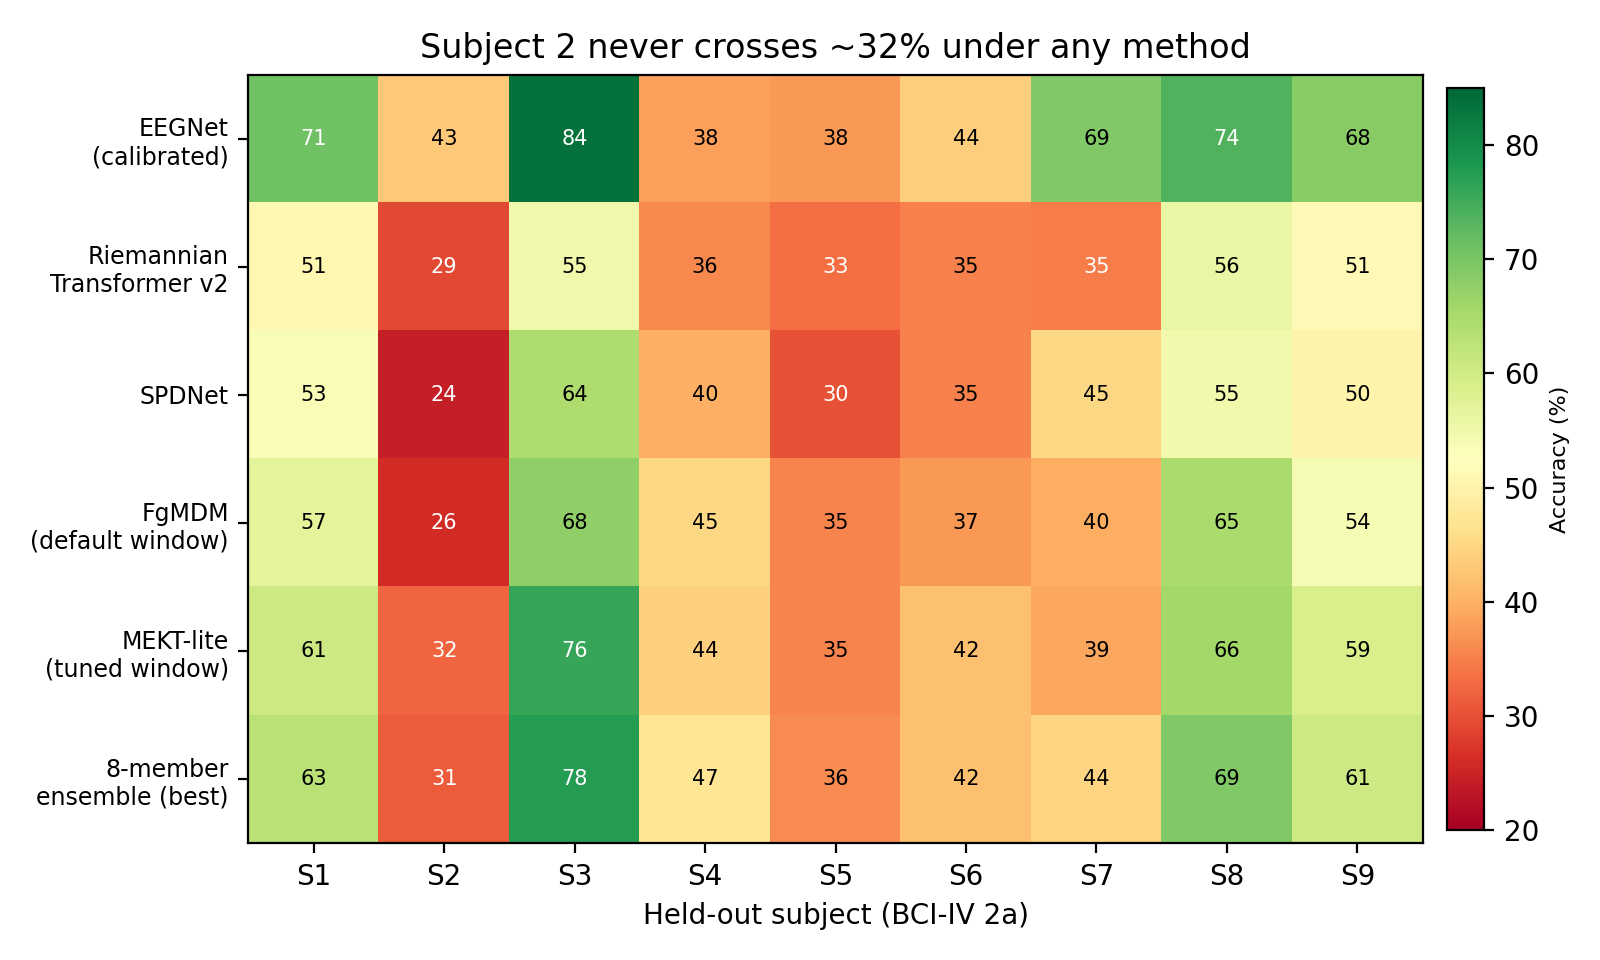
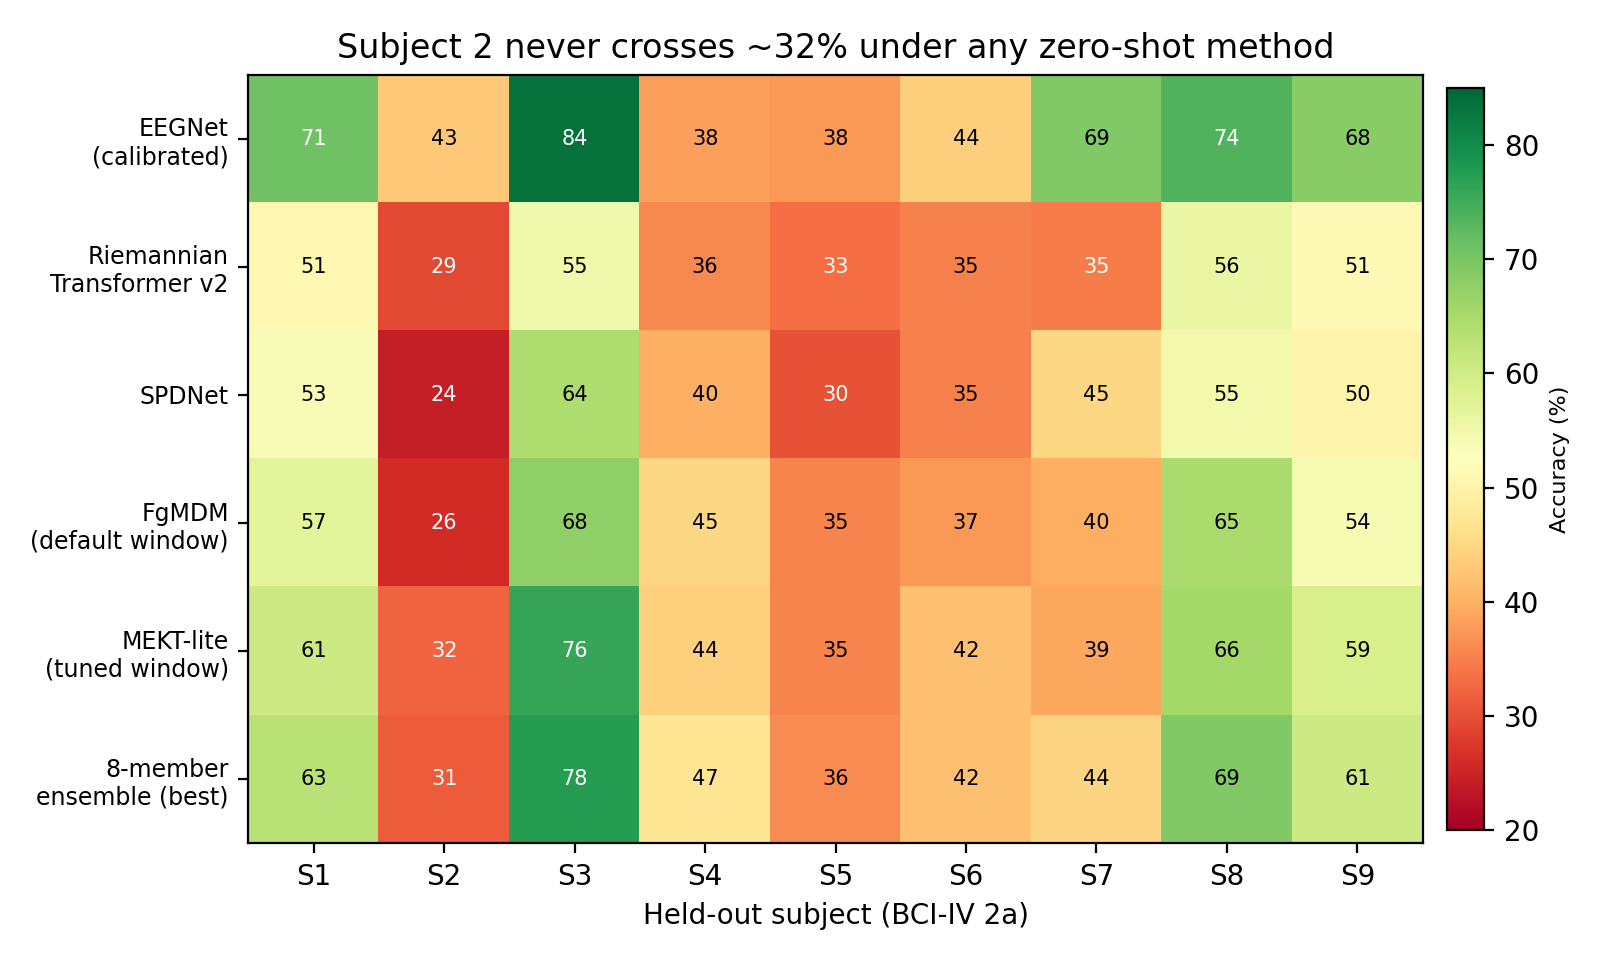
Fix two chart titles to match manuscript text corrections
Both were left inconsistent with the corresponding text/caption fixes:
- all_methods_comparison.png: "All zero-shot methods" -> "Representative
  zero-shot methods" (this plot excludes the negative-result-sweep methods,
  so "all" overclaimed).
- per_subject_heatmap.png: "under any method" -> "under any zero-shot
  method" (the calibrated EEGNet row does cross 32% for subject 2, at 43%;
  only the zero-shot methods stay below it).

Data unchanged in both -- title text only. Regenerated via
generate_manuscript_figures.py, diffed to confirm no other changes.

Changed region(s): [[0.2188, 0.0312, 0.8438, 0.0625]]

diff --git a/paper/writeup/generate_manuscript_figures.py b/paper/writeup/generate_manuscript_figures.py
@@ -78,7 +78,7 @@ for i in range(len(methods)):
 ax.set_xlabel("Held-out subject (BCI-IV 2a)")
 cbar = plt.colorbar(im, ax=ax, fraction=0.03, pad=0.02)
 cbar.set_label("Accuracy (%)", fontsize=8)
-ax.set_title("Subject 2 never crosses ~32% under any method")
+ax.set_title("Subject 2 never crosses ~32% under any zero-shot method")
 plt.tight_layout()
 plt.savefig(os.path.join(FIG_DIR, "per_subject_heatmap.png"), dpi=200)
 plt.close()
@@ -126,7 +126,7 @@ ax.axvline(25, color="gray", linestyle=":", linewidth=1)
 ax.axvline(58.68, color="firebrick", linestyle="--", linewidth=1.2)
 ax.set_xlabel("Zero-shot LOSO accuracy (%)")
 ax.set_xlim(0, 75)
-ax.set_title("All zero-shot methods tried, sorted by accuracy")
+ax.set_title("Representative zero-shot methods tried, sorted by accuracy")
 from matplotlib.patches import Patch
 legend_elems = [Patch(facecolor=c, label=l) for l, c in cat_colors.items()]
 ax.legend(handles=legend_elems, loc="lower right", fontsize=7.5, framealpha=0.9)
